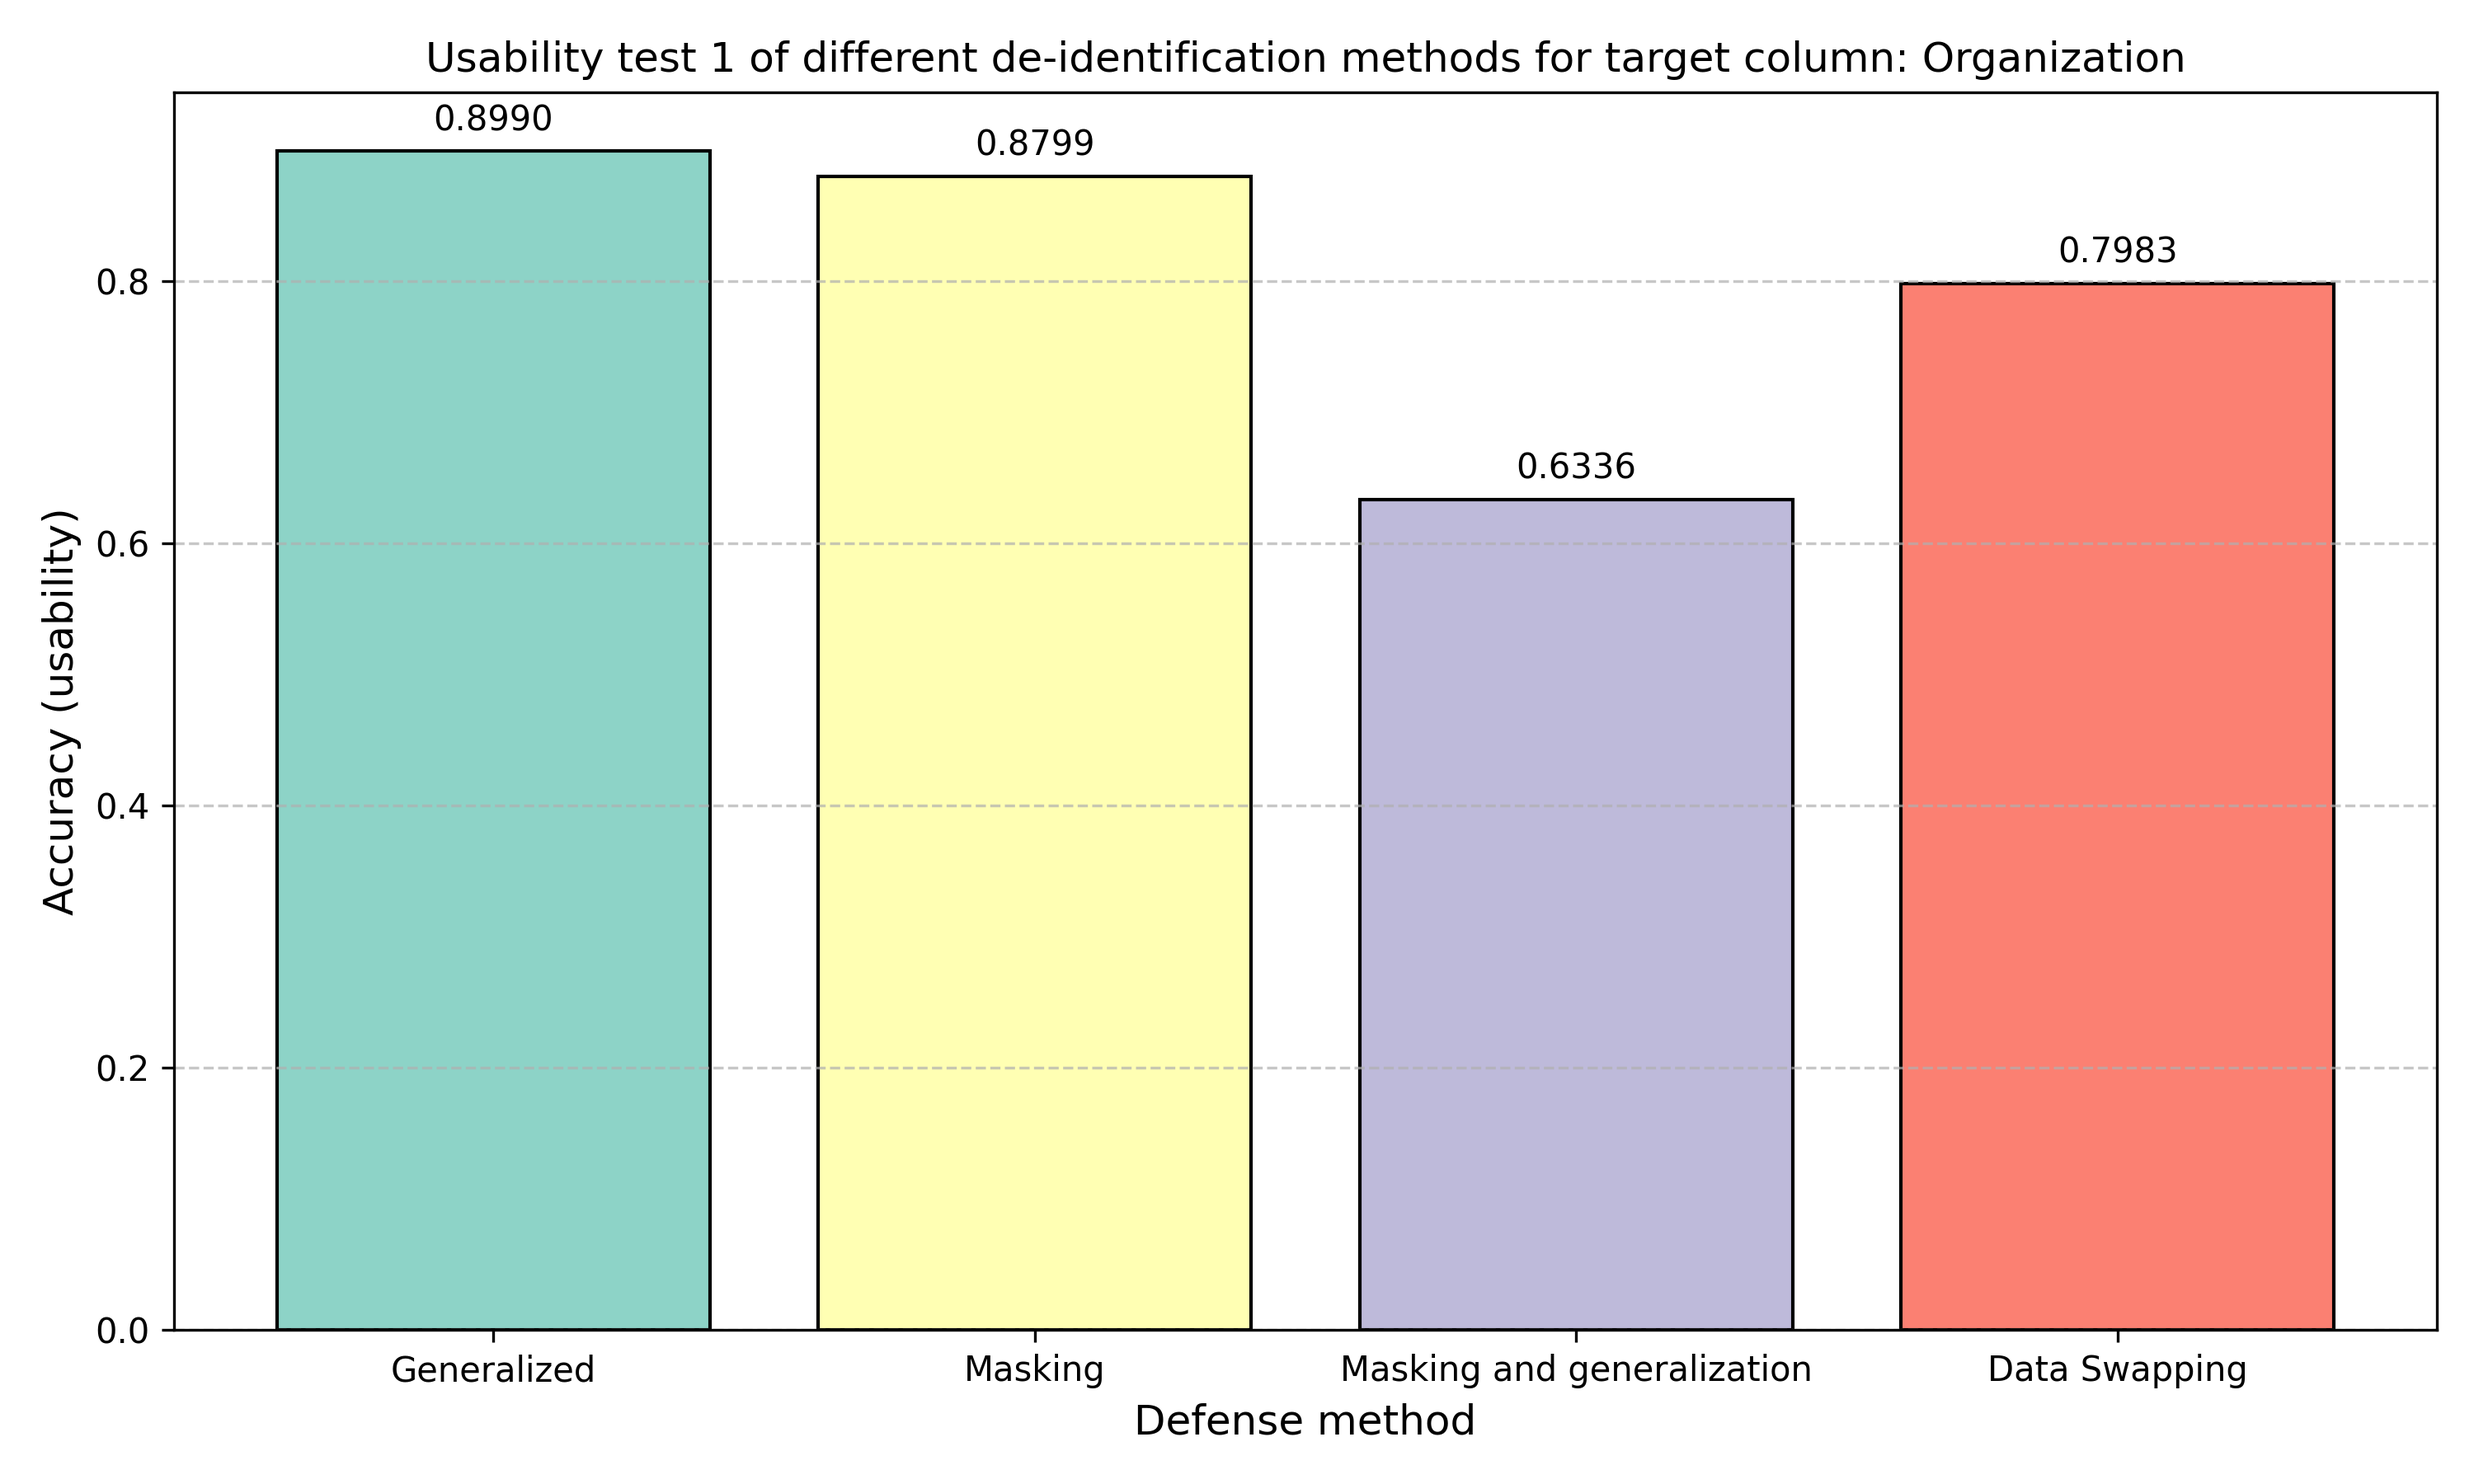
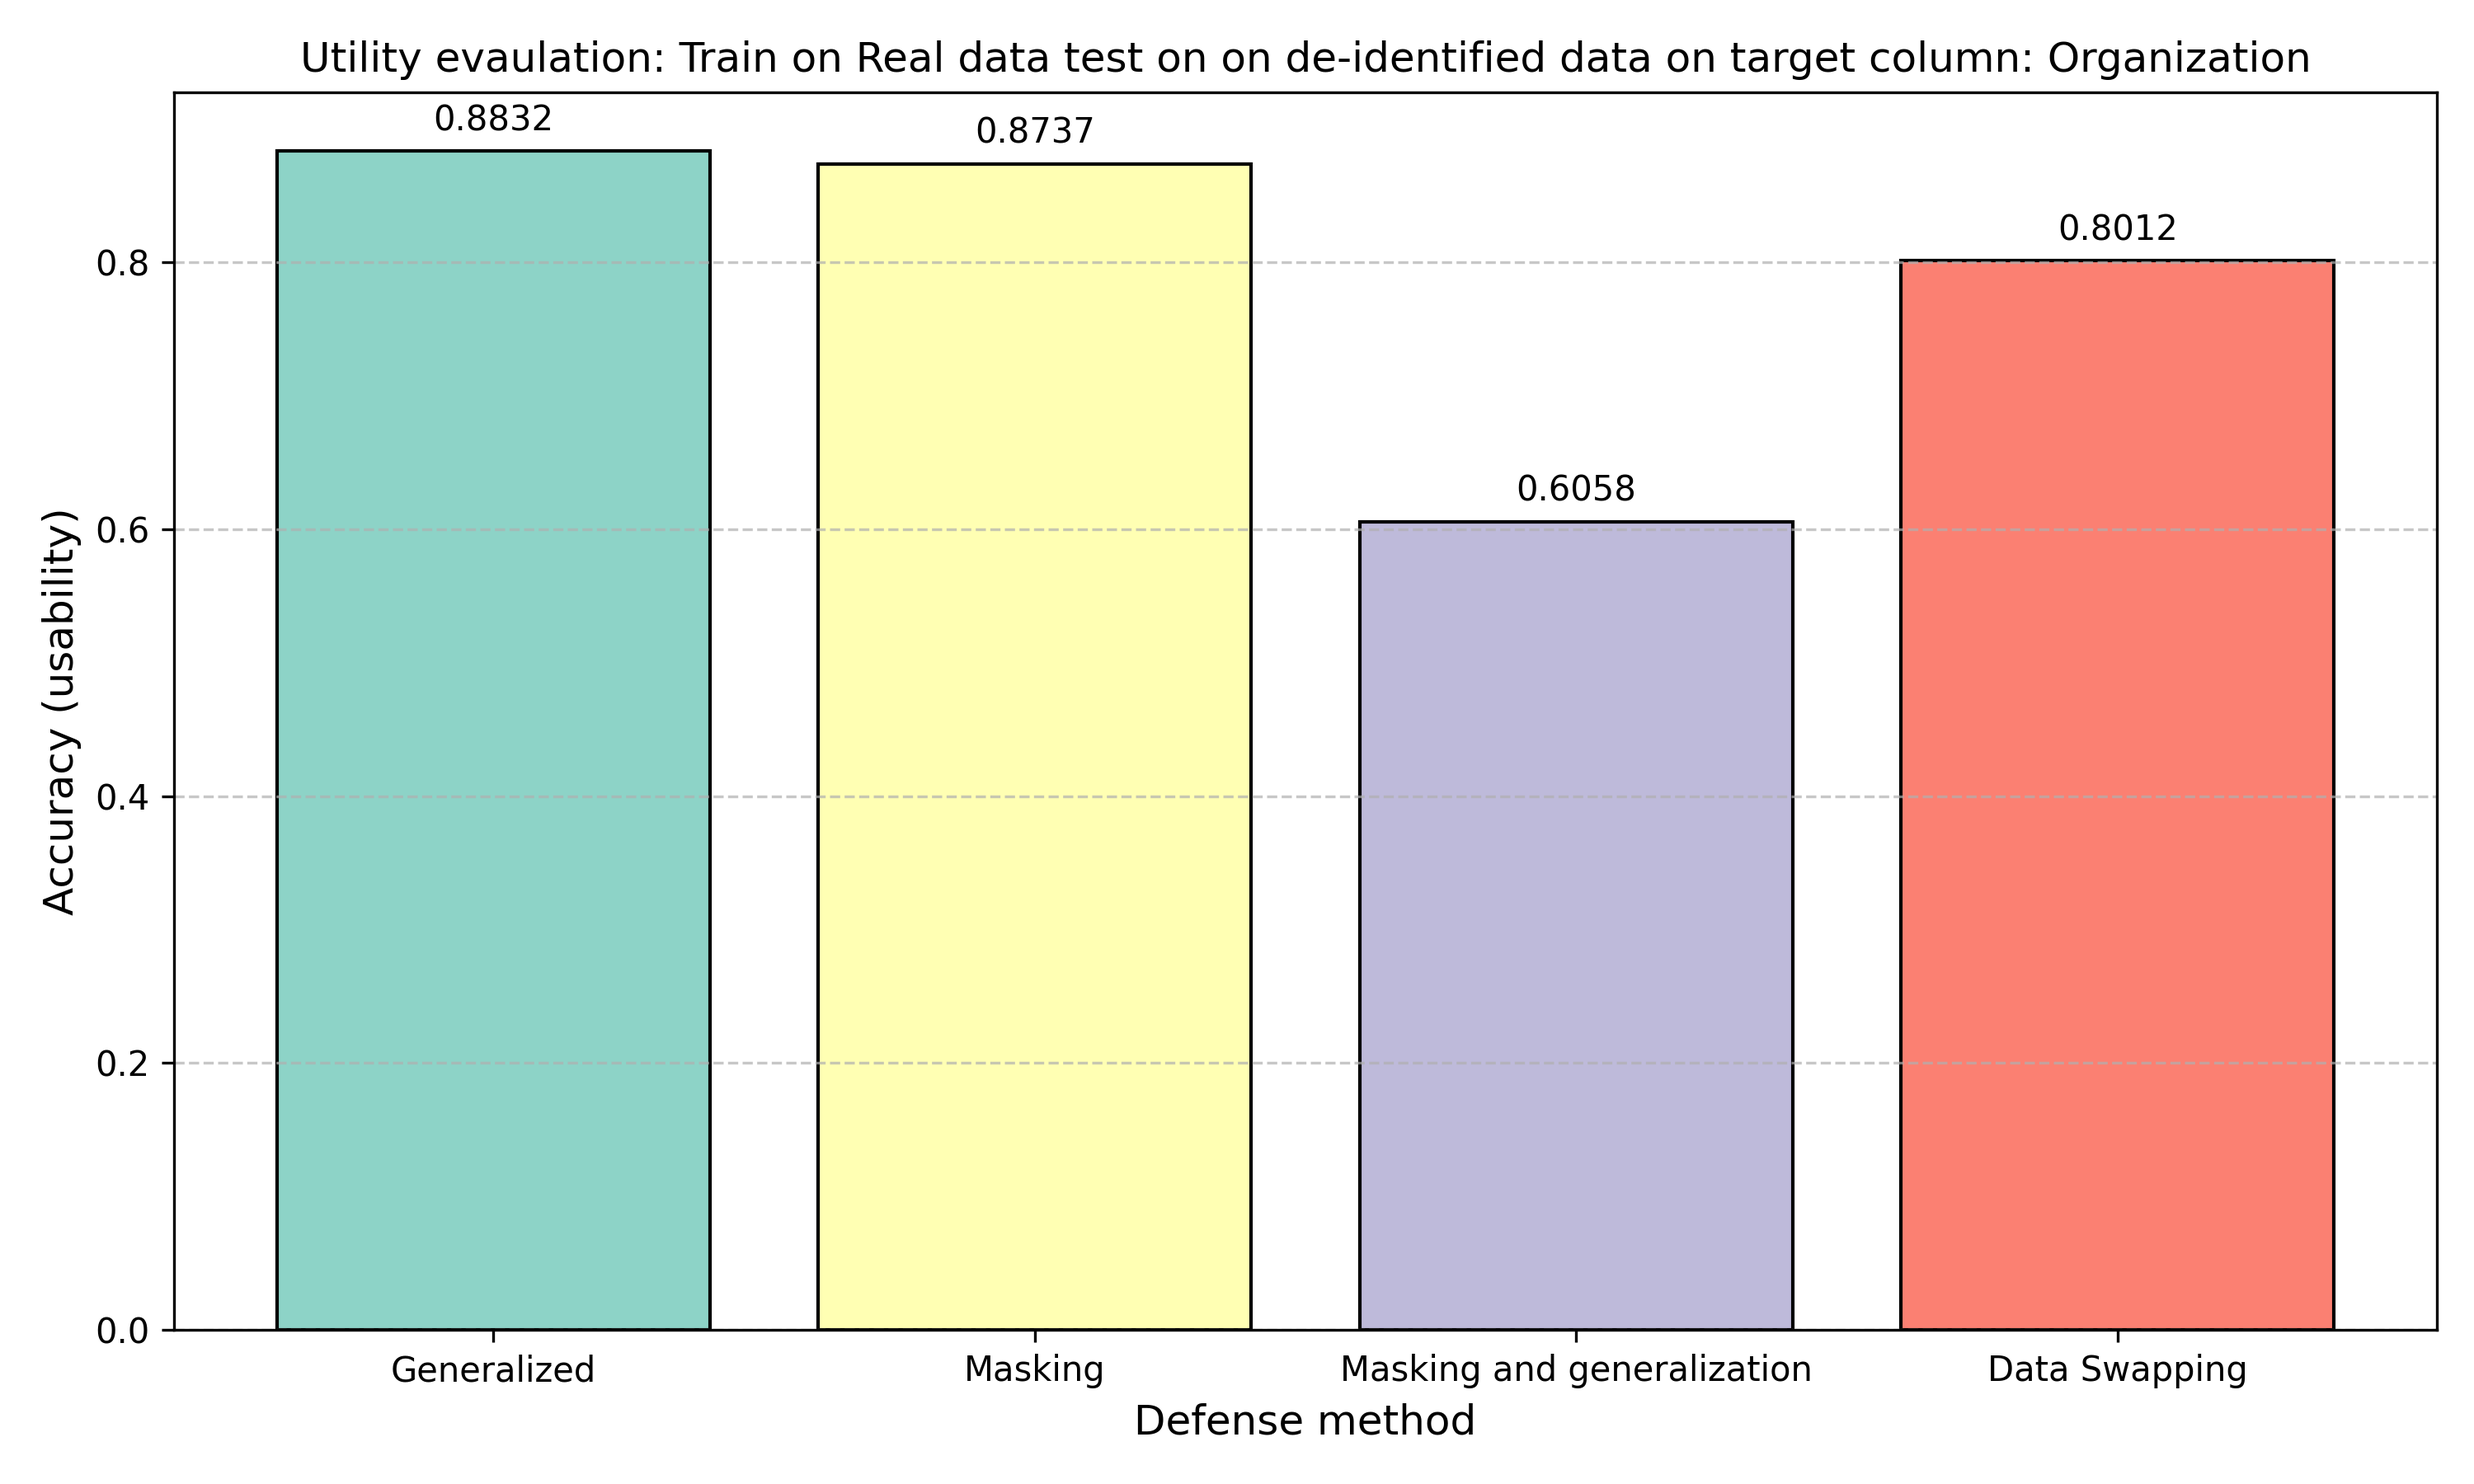
reconstructed repository

diff --git a/benchmarks/utility/TSTR.py b/benchmarks/utility/TSTR.py
@@ -1,0 +1,76 @@
+from sklearn.ensemble import RandomForestClassifier
+from sklearn.metrics import accuracy_score
+from sklearn.preprocessing import LabelEncoder
+import pandas as pd
+import matplotlib.pyplot as plt
+
+"""
+TSTR: Train on (de-identified) Synthetic, Test on Real
+"""
+
+def preprocess_data(df):
+
+    df_clean = df.copy()
+    
+    df_clean = df_clean.fillna("Unknown")
+    
+    le = LabelEncoder()
+    for col in df_clean.columns:
+        if df_clean[col].dtype == 'object':
+            df_clean[col] = le.fit_transform(df_clean[col].astype(str))
+            
+    return df_clean
+
+def plot_utility_results(results_dict, target_col):
+    names = list(results_dict.keys())
+    accuracies = list(results_dict.values())
+    
+    plt.figure(figsize=(10, 6))
+    bars = plt.bar(names, accuracies, color=plt.cm.Set3.colors, edgecolor='black')
+    text = [plt.text(i, acc + 0.01, f"{acc:.4f}", ha='center', va='bottom', fontsize=10) for i, acc in enumerate(accuracies)]
+    
+    plt.ylabel('Accuracy (usability)', fontsize=12)
+    plt.xlabel('Defense method', fontsize=12)
+    plt.title(f'Utility evaulation: Train on de-identified data, Test on Real data of different de-identification on target column: {target_col}', fontsize=12)
+    plt.grid(axis='y', linestyle='--', alpha=0.7)
+    
+    plt.tight_layout()
+    plt.savefig("../plots/tstr_plot.png", dpi=300)
+    plt.show()
+    
+
+if __name__ == "__main__":
+    model = RandomForestClassifier()
+    df_original = pd.read_csv('../../datasets/mendeley_data.csv') # original data always
+    target_col = 'Organization'  # Choose a target column that is relevant for utility evaluation, e.g., 'ISP'
+    df_original = preprocess_data(df_original)
+    datasets_to_test = {
+        "Generalized": pd.read_csv('../../datasets/de-identified-datasets/generalization.csv'),
+        "Masking": pd.read_csv('../../datasets/de-identified-datasets/masking.csv'),
+        "Masking and generalization" : pd.read_csv('../../datasets/de-identified-datasets/generalization_and_masking.csv'),
+        "Data Swapping" : pd.read_csv('../../datasets/de-identified-datasets/swapped_data.csv')
+    }
+
+    final_results = {}
+
+    for defense_name, df_protected in datasets_to_test.items():
+        df_clean = preprocess_data(df_protected)
+        df_protected = preprocess_data(df_protected)
+
+        different_cols_original=list(set(df_original.columns) - set(df_protected.columns))
+        different_cols_protected=list(set(df_protected.columns) - set(df_original.columns))
+
+        cols_to_drop_train = different_cols_original + [target_col]
+        X_train = df_protected.drop(columns=cols_to_drop_train) 
+        y_train = df_protected[target_col]
+        model.fit(X_train, y_train)
+
+        cols_to_drop_test = different_cols_protected + [target_col]
+        X_test = df_original.drop(columns=cols_to_drop_test) 
+        y_test = df_original[target_col]
+        y_pred = model.predict(X_test)
+
+        accuracy = accuracy_score(y_test, y_pred)
+
+        final_results[defense_name] = accuracy
+    plot_utility_results(final_results, target_col)

diff --git a/benchmarks/utility/ML-performance.py b/benchmarks/utility/ML-performance.py
@@ -6,6 +6,10 @@ from sklearn.ensemble import RandomForestClassifier
 from sklearn.metrics import accuracy_score
 from sklearn.preprocessing import LabelEncoder
 
+"""
+ML performance evaluation: Train and test on the same data
+"""
+
 def preprocess_data(df):
 
     df_clean = df.copy()
@@ -20,7 +24,6 @@ def preprocess_data(df):
     return df_clean
 
 def evaluate_dataset_utility(df, target_col):
-#https://jisem-journal.com/index.php/journal/article/view/1198/456
     df_processed = preprocess_data(df)
     
     X = df_processed.drop(columns=[target_col])
@@ -28,7 +31,7 @@ def evaluate_dataset_utility(df, target_col):
     
     X_train, X_test, y_train, y_test = train_test_split(X, y, test_size=0.2, random_state=42)
     
-    clf = RandomForestClassifier(n_estimators=50, random_state=42)
+    clf = RandomForestClassifier(random_state=42)
     clf.fit(X_train, y_train)
     
     y_pred = clf.predict(X_test)
@@ -46,19 +49,19 @@ def plot_utility_results(results_dict, target_col):
     
     plt.ylabel('Accuracy (utility)', fontsize=12)
     plt.xlabel('Dataset', fontsize=12)
-    plt.title(f'Usability test 2 of different de-identification methods for target column: {target_col}', fontsize=12)
+    plt.title(f'Utility evaluation: Machine Learning Performance of different de-identification methods for target column: {target_col}', fontsize=12)
     plt.grid(axis='y', linestyle='--', alpha=0.7)
     
     plt.tight_layout()
-    plt.savefig("plots/utility_plot2.png", dpi=300)
+    plt.savefig("../plots/ml_performance_plot.png", dpi=300)
 
     plt.show()
 
 if __name__ == "__main__":
-    df_original = pd.read_csv('../datasets/mendeley_data.csv') # original data always
-    df_generalized = pd.read_csv('../datasets/de-identified-datasets/generalization.csv')
-    df_masked = pd.read_csv('../datasets/de-identified-datasets/masking.csv')
-    df_generalized_masked = pd.read_csv('../datasets/de-identified-datasets/generalization_and_masking.csv')
+    df_original = pd.read_csv('../../datasets/mendeley_data.csv') # original data always
+    df_generalized = pd.read_csv('../../datasets/de-identified-datasets/generalization.csv')
+    df_masked = pd.read_csv('../../datasets/de-identified-datasets/masking.csv')
+    df_generalized_masked = pd.read_csv('../../datasets/de-identified-datasets/generalization_and_masking.csv')
     target_col = 'Organization'  # Choose a target column that is relevant for utility evaluation, e.g., 'ISP'
 
     results = {

diff --git a/benchmarks/utility/TRTS.py b/benchmarks/utility/TRTS.py
@@ -4,6 +4,10 @@ from sklearn.preprocessing import LabelEncoder
 import pandas as pd
 import matplotlib.pyplot as plt
 
+"""
+TRTS: Train on Real, Test on (de-identified) Synthetic 
+"""
+
 def preprocess_data(df):
 
     df_clean = df.copy()
@@ -27,25 +31,24 @@ def plot_utility_results(results_dict, target_col):
     
     plt.ylabel('Accuracy (usability)', fontsize=12)
     plt.xlabel('Defense method', fontsize=12)
-    plt.title(f'Usability test 1 of different de-identification methods for target column: {target_col}', fontsize=12)
+    plt.title(f'Utility evaulation: Train on Real data test, Test on de-identified data of different de-identification on target column: {target_col}', fontsize=12)
     plt.grid(axis='y', linestyle='--', alpha=0.7)
     
     plt.tight_layout()
-    plt.savefig("plots/usability_plot1.png", dpi=300)
+    plt.savefig("../plots/trts_plot.png", dpi=300)
     plt.show()
     
 
 if __name__ == "__main__":
-
     model = RandomForestClassifier()
-    df_original = pd.read_csv('../datasets/mendeley_data.csv') # original data always
+    df_original = pd.read_csv('../../datasets/mendeley_data.csv') # original data always
     target_col = 'Organization'  # Choose a target column that is relevant for utility evaluation, e.g., 'ISP'
     df_original = preprocess_data(df_original)
     datasets_to_test = {
-        "Generalized": pd.read_csv('../datasets/de-identified-datasets/generalization.csv'),
-        "Masking": pd.read_csv('../datasets/de-identified-datasets/masking.csv'),
-        "Masking and generalization" : pd.read_csv('../datasets/de-identified-datasets/generalization_and_masking.csv'),
-        "Data Swapping" : pd.read_csv('../datasets/de-identified-datasets/swapped_data.csv')
+        "Generalized": pd.read_csv('../../datasets/de-identified-datasets/generalization.csv'),
+        "Masking": pd.read_csv('../../datasets/de-identified-datasets/masking.csv'),
+        "Masking and generalization" : pd.read_csv('../../datasets/de-identified-datasets/generalization_and_masking.csv'),
+        "Data Swapping" : pd.read_csv('../../datasets/de-identified-datasets/swapped_data.csv')
     }
 
     final_results = {}

diff --git a/benchmarks/attacks/netflix-attack.py b/benchmarks/attacks/netflix-attack.py
@@ -83,16 +83,16 @@ def plot_results(results_dict):
     plt.ylim(0, 100)
     plt.ylabel('Hit Accuracy (%)', fontsize=12)
     plt.xlabel('Defense Method', fontsize=12)
-    plt.title('Netflix Attack Precision Across Defenses', fontsize=12)
+    plt.title('Netflix Attack Accuracy Across Defenses', fontsize=12)
     plt.grid(axis='y', linestyle='--', alpha=0.7)
                  
     plt.tight_layout()
-    plt.savefig("plots/attack_accuracy.png", dpi=300)
+    plt.savefig("../plots/attack_accuracy.png", dpi=300)
     plt.show()
 
 
 if __name__ == "__main__":
-    df_original = pd.read_csv('../datasets/mendeley_data.csv')
+    df_original = pd.read_csv('../../datasets/mendeley_data.csv')
 
     # we assume the attacker only has access to some of the quasi-identifiers, and not the IP address, and also only 50 random records to link.
     # we add the IP-address just so we can evaluate how well the attack went. The attacker is only using the quasi-identifiers
@@ -102,10 +102,10 @@ if __name__ == "__main__":
     # add more defenses here
     datasets_to_test = {
         "No Defense (Baseline)": df_original,
-        "Generalization" : pd.read_csv('../datasets/de-identified-datasets/generalization.csv'),
-        "Masking": pd.read_csv('../datasets/de-identified-datasets/masking.csv'),
-        "Masking and generalization" : pd.read_csv('../datasets/de-identified-datasets/generalization_and_masking.csv'),
-        "Data Swapping" : pd.read_csv('../datasets/de-identified-datasets/swapped_data.csv')
+        "Generalization" : pd.read_csv('../../datasets/de-identified-datasets/generalization.csv'),
+        "Masking": pd.read_csv('../../datasets/de-identified-datasets/masking.csv'),
+        "Masking and generalization" : pd.read_csv('../../datasets/de-identified-datasets/generalization_and_masking.csv'),
+        "Data Swapping" : pd.read_csv('../../datasets/de-identified-datasets/swapped_data.csv')
         # "Suppression" : pd.read_csv("../datasets/de-identified-datasets/suppressed_city.csv")
         # "v2": pd.read_csv('../datasets/anonymized_v2.csv'),
         # "v3": pd.read_csv('../datasets/anonymized_v3.csv')

diff --git a/benchmarks/assessments/uniqueness.py b/benchmarks/assessments/uniqueness.py
@@ -18,17 +18,17 @@ def plot_results(results_dict):
     plt.grid(axis='y', linestyle='--', alpha=0.7)
                  
     plt.tight_layout()
-    plt.savefig("plots/uniqueness.png", dpi=300)
+    plt.savefig("../plots/uniqueness.png", dpi=300)
     plt.show()
 
 if __name__ == "__main__":
 
     datasets_to_test = {
-            "No Defense (Baseline)": pd.read_csv('../datasets/mendeley_data.csv'),
-            "Generalization": pd.read_csv('../datasets/de-identified-datasets/generalization.csv'),
-            "Masking": pd.read_csv('../datasets/de-identified-datasets/masking.csv'),
-            "Masking and generalization" : pd.read_csv('../datasets/de-identified-datasets/generalization_and_masking.csv'),
-            "Data Swapping" : pd.read_csv('../datasets/de-identified-datasets/swapped_data.csv')
+            "No Defense (Baseline)": pd.read_csv('../../datasets/mendeley_data.csv'),
+            "Generalization": pd.read_csv('../../datasets/de-identified-datasets/generalization.csv'),
+            "Masking": pd.read_csv('../../datasets/de-identified-datasets/masking.csv'),
+            "Masking and generalization" : pd.read_csv('../../datasets/de-identified-datasets/generalization_and_masking.csv'),
+            "Data Swapping" : pd.read_csv('../../datasets/de-identified-datasets/swapped_data.csv')
             # "Suppression" : pd.read_csv("../datasets/de-identified-datasets/suppressed_city.csv")
 
             # "v2": pd.read_csv('../datasets/anonymized_v2.csv'),
